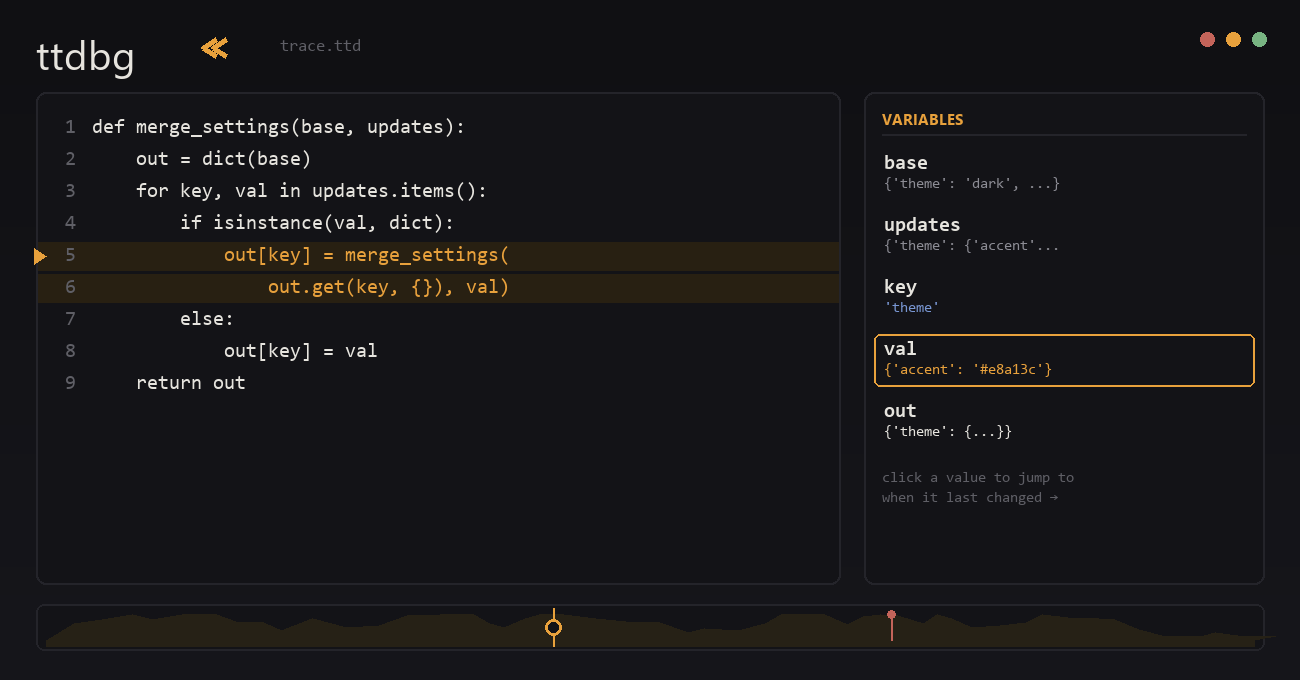
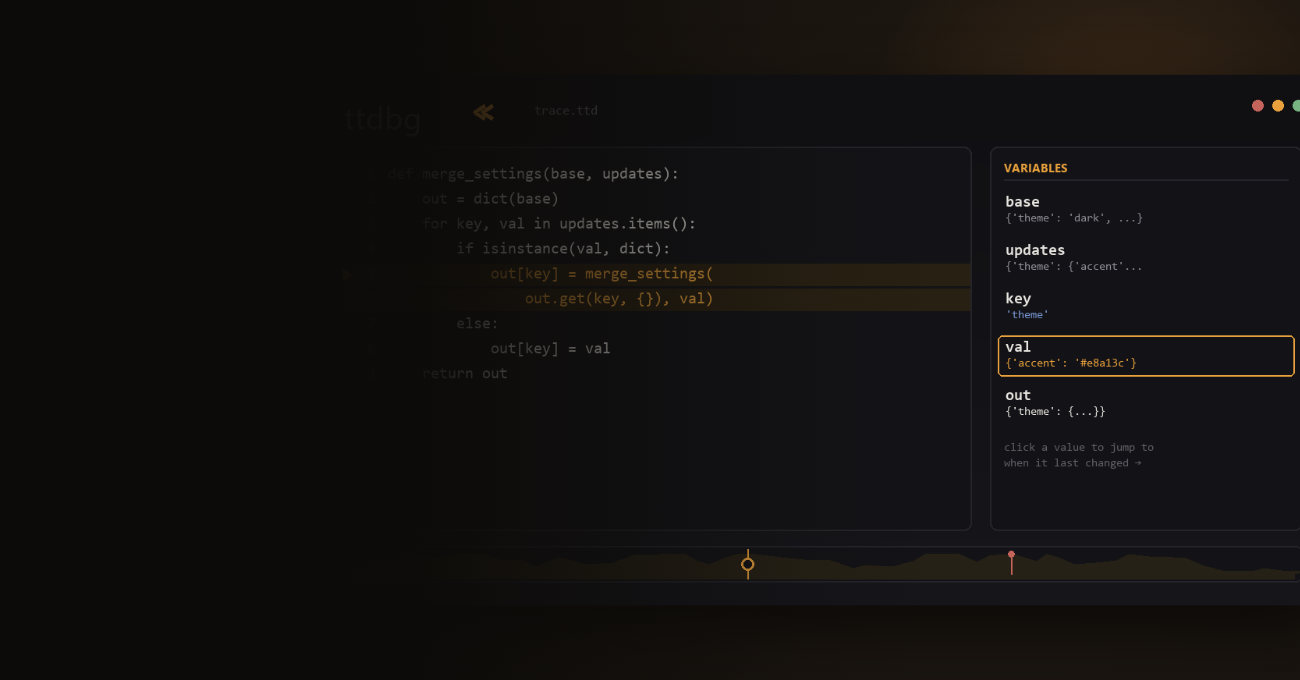
Fix the ttdbg post: encoding, missing card, cover composition
- Repair double-encoded em dashes (13 lines were rendering as mojibake)
- Add the missing ttdbg card to _data/projects.yml, linked to the repo.
  The home page is the projects grid, so a post without a card is unreachable.
- Recompose the cover so the UI mockup sits right of the title instead of
  underneath it, and shorten the subtitle to fit the header

diff --git a/_site/tags/index.html b/_site/tags/index.html
@@ -218,7 +218,7 @@
     <div class=" col-xl-8 offset-xl-2 col-lg-10 offset-lg-1 ">
       
 
-      <a href="#AI" class="btn btn-primary tag-btn"><i class="fas fa-tag" aria-hidden="true"></i>&nbsp;AI&nbsp;(4)</a><a href="#Agents" class="btn btn-primary tag-btn"><i class="fas fa-tag" aria-hidden="true"></i>&nbsp;Agents&nbsp;(1)</a><a href="#Architecture" class="btn btn-primary tag-btn"><i class="fas fa-tag" aria-hidden="true"></i>&nbsp;Architecture&nbsp;(1)</a><a href="#Chrome Extension" class="btn btn-primary tag-btn"><i class="fas fa-tag" aria-hidden="true"></i>&nbsp;Chrome Extension&nbsp;(1)</a><a href="#Cloudflare" class="btn btn-primary tag-btn"><i class="fas fa-tag" aria-hidden="true"></i>&nbsp;Cloudflare&nbsp;(2)</a><a href="#Cryptography" class="btn btn-primary tag-btn"><i class="fas fa-tag" aria-hidden="true"></i>&nbsp;Cryptography&nbsp;(1)</a><a href="#DSA" class="btn btn-primary tag-btn"><i class="fas fa-tag" aria-hidden="true"></i>&nbsp;DSA&nbsp;(1)</a><a href="#Desktop App" class="btn btn-primary tag-btn"><i class="fas fa-tag" aria-hidden="true"></i>&nbsp;Desktop App&nbsp;(1)</a><a href="#Distributed Systems" class="btn btn-primary tag-btn"><i class="fas fa-tag" aria-hidden="true"></i>&nbsp;Distributed Systems&nbsp;(1)</a><a href="#Expo" class="btn btn-primary tag-btn"><i class="fas fa-tag" aria-hidden="true"></i>&nbsp;Expo&nbsp;(1)</a><a href="#Game Dev" class="btn btn-primary tag-btn"><i class="fas fa-tag" aria-hidden="true"></i>&nbsp;Game Dev&nbsp;(1)</a><a href="#Gaming" class="btn btn-primary tag-btn"><i class="fas fa-tag" aria-hidden="true"></i>&nbsp;Gaming&nbsp;(1)</a><a href="#Health" class="btn btn-primary tag-btn"><i class="fas fa-tag" aria-hidden="true"></i>&nbsp;Health&nbsp;(1)</a><a href="#Lua" class="btn btn-primary tag-btn"><i class="fas fa-tag" aria-hidden="true"></i>&nbsp;Lua&nbsp;(1)</a><a href="#Mobile" class="btn btn-primary tag-btn"><i class="fas fa-tag" aria-hidden="true"></i>&nbsp;Mobile&nbsp;(1)</a><a href="#Open Source" class="btn btn-primary tag-btn"><i class="fas fa-tag" aria-hidden="true"></i>&nbsp;Open Source&nbsp;(1)</a><a href="#OpenCV" class="btn btn-primary tag-btn"><i class="fas fa-tag" aria-hidden="true"></i>&nbsp;OpenCV&nbsp;(2)</a><a href="#Paused" class="btn btn-primary tag-btn"><i class="fas fa-tag" aria-hidden="true"></i>&nbsp;Paused&nbsp;(1)</a><a href="#Python" class="btn btn-primary tag-btn"><i class="fas fa-tag" aria-hidden="true"></i>&nbsp;Python&nbsp;(4)</a><a href="#Raspberry pi" class="btn btn-primary tag-btn"><i class="fas fa-tag" aria-hidden="true"></i>&nbsp;Raspberry pi&nbsp;(1)</a><a href="#React Native" class="btn btn-primary tag-btn"><i class="fas fa-tag" aria-hidden="true"></i>&nbsp;React Native&nbsp;(1)</a><a href="#Roblox" class="btn btn-primary tag-btn"><i class="fas fa-tag" aria-hidden="true"></i>&nbsp;Roblox&nbsp;(1)</a><a href="#Startup" class="btn btn-primary tag-btn"><i class="fas fa-tag" aria-hidden="true"></i>&nbsp;Startup&nbsp;(2)</a><a href="#Stripe" class="btn btn-primary tag-btn"><i class="fas fa-tag" aria-hidden="true"></i>&nbsp;Stripe&nbsp;(1)</a><a href="#Unit Economics" class="btn btn-primary tag-btn"><i class="fas fa-tag" aria-hidden="true"></i>&nbsp;Unit Economics&nbsp;(1)</a><a href="#Voice" class="btn btn-primary tag-btn"><i class="fas fa-tag" aria-hidden="true"></i>&nbsp;Voice&nbsp;(1)</a><a href="#Vosk" class="btn btn-primary tag-btn"><i class="fas fa-tag" aria-hidden="true"></i>&nbsp;Vosk&nbsp;(1)</a><a href="#WIP" class="btn btn-primary tag-btn"><i class="fas fa-tag" aria-hidden="true"></i>&nbsp;WIP&nbsp;(1)</a><a href="#Youtube" class="btn btn-primary tag-btn"><i class="fas fa-tag" aria-hidden="true"></i>&nbsp;Youtube&nbsp;(1)</a><a href="#buttons" class="btn btn-primary tag-btn"><i class="fas fa-tag" aria-hidden="true"></i>&nbsp;buttons&nbsp;(1)</a><a href="#esp32" class="btn btn-primary tag-btn"><i class="fas fa-tag" aria-hidden="true"></i>&nbsp;esp32&nbsp;(3)</a><a href="#optimization" class="btn btn-primary tag-btn"><i class="fas fa-tag" aria-hidden="true"></i>&nbsp;optimization&nbsp;(1)</a><a href="#webserver" class="btn btn-primary tag-btn"><i class="fas fa-tag" aria-hidden="true"></i>&nbsp;webserver&nbsp;(2)</a><div id="full-tags-list"><h2 id="AI" class="linked-section">
+      <a href="#AI" class="btn btn-primary tag-btn"><i class="fas fa-tag" aria-hidden="true"></i>&nbsp;AI&nbsp;(4)</a><a href="#Agents" class="btn btn-primary tag-btn"><i class="fas fa-tag" aria-hidden="true"></i>&nbsp;Agents&nbsp;(1)</a><a href="#Architecture" class="btn btn-primary tag-btn"><i class="fas fa-tag" aria-hidden="true"></i>&nbsp;Architecture&nbsp;(1)</a><a href="#Chrome Extension" class="btn btn-primary tag-btn"><i class="fas fa-tag" aria-hidden="true"></i>&nbsp;Chrome Extension&nbsp;(1)</a><a href="#Cloudflare" class="btn btn-primary tag-btn"><i class="fas fa-tag" aria-hidden="true"></i>&nbsp;Cloudflare&nbsp;(2)</a><a href="#Cryptography" class="btn btn-primary tag-btn"><i class="fas fa-tag" aria-hidden="true"></i>&nbsp;Cryptography&nbsp;(1)</a><a href="#DSA" class="btn btn-primary tag-btn"><i class="fas fa-tag" aria-hidden="true"></i>&nbsp;DSA&nbsp;(1)</a><a href="#Debugging" class="btn btn-primary tag-btn"><i class="fas fa-tag" aria-hidden="true"></i>&nbsp;Debugging&nbsp;(1)</a><a href="#Desktop App" class="btn btn-primary tag-btn"><i class="fas fa-tag" aria-hidden="true"></i>&nbsp;Desktop App&nbsp;(1)</a><a href="#Distributed Systems" class="btn btn-primary tag-btn"><i class="fas fa-tag" aria-hidden="true"></i>&nbsp;Distributed Systems&nbsp;(1)</a><a href="#Expo" class="btn btn-primary tag-btn"><i class="fas fa-tag" aria-hidden="true"></i>&nbsp;Expo&nbsp;(1)</a><a href="#Game Dev" class="btn btn-primary tag-btn"><i class="fas fa-tag" aria-hidden="true"></i>&nbsp;Game Dev&nbsp;(1)</a><a href="#Gaming" class="btn btn-primary tag-btn"><i class="fas fa-tag" aria-hidden="true"></i>&nbsp;Gaming&nbsp;(1)</a><a href="#Health" class="btn btn-primary tag-btn"><i class="fas fa-tag" aria-hidden="true"></i>&nbsp;Health&nbsp;(1)</a><a href="#Lua" class="btn btn-primary tag-btn"><i class="fas fa-tag" aria-hidden="true"></i>&nbsp;Lua&nbsp;(1)</a><a href="#Mobile" class="btn btn-primary tag-btn"><i class="fas fa-tag" aria-hidden="true"></i>&nbsp;Mobile&nbsp;(1)</a><a href="#Open Source" class="btn btn-primary tag-btn"><i class="fas fa-tag" aria-hidden="true"></i>&nbsp;Open Source&nbsp;(1)</a><a href="#OpenCV" class="btn btn-primary tag-btn"><i class="fas fa-tag" aria-hidden="true"></i>&nbsp;OpenCV&nbsp;(2)</a><a href="#Paused" class="btn btn-primary tag-btn"><i class="fas fa-tag" aria-hidden="true"></i>&nbsp;Paused&nbsp;(1)</a><a href="#Python" class="btn btn-primary tag-btn"><i class="fas fa-tag" aria-hidden="true"></i>&nbsp;Python&nbsp;(5)</a><a href="#Raspberry pi" class="btn btn-primary tag-btn"><i class="fas fa-tag" aria-hidden="true"></i>&nbsp;Raspberry pi&nbsp;(1)</a><a href="#React Native" class="btn btn-primary tag-btn"><i class="fas fa-tag" aria-hidden="true"></i>&nbsp;React Native&nbsp;(1)</a><a href="#Roblox" class="btn btn-primary tag-btn"><i class="fas fa-tag" aria-hidden="true"></i>&nbsp;Roblox&nbsp;(1)</a><a href="#Startup" class="btn btn-primary tag-btn"><i class="fas fa-tag" aria-hidden="true"></i>&nbsp;Startup&nbsp;(2)</a><a href="#Stripe" class="btn btn-primary tag-btn"><i class="fas fa-tag" aria-hidden="true"></i>&nbsp;Stripe&nbsp;(1)</a><a href="#Systems" class="btn btn-primary tag-btn"><i class="fas fa-tag" aria-hidden="true"></i>&nbsp;Systems&nbsp;(1)</a><a href="#Tools" class="btn btn-primary tag-btn"><i class="fas fa-tag" aria-hidden="true"></i>&nbsp;Tools&nbsp;(1)</a><a href="#Unit Economics" class="btn btn-primary tag-btn"><i class="fas fa-tag" aria-hidden="true"></i>&nbsp;Unit Economics&nbsp;(1)</a><a href="#Voice" class="btn btn-primary tag-btn"><i class="fas fa-tag" aria-hidden="true"></i>&nbsp;Voice&nbsp;(1)</a><a href="#Vosk" class="btn btn-primary tag-btn"><i class="fas fa-tag" aria-hidden="true"></i>&nbsp;Vosk&nbsp;(1)</a><a href="#WIP" class="btn btn-primary tag-btn"><i class="fas fa-tag" aria-hidden="true"></i>&nbsp;WIP&nbsp;(1)</a><a href="#Youtube" class="btn btn-primary tag-btn"><i class="fas fa-tag" aria-hidden="true"></i>&nbsp;Youtube&nbsp;(1)</a><a href="#buttons" class="btn btn-primary tag-btn"><i class="fas fa-tag" aria-hidden="true"></i>&nbsp;buttons&nbsp;(1)</a><a href="#esp32" class="btn btn-primary tag-btn"><i class="fas fa-tag" aria-hidden="true"></i>&nbsp;esp32&nbsp;(3)</a><a href="#optimization" class="btn btn-primary tag-btn"><i class="fas fa-tag" aria-hidden="true"></i>&nbsp;optimization&nbsp;(1)</a><a href="#webserver" class="btn btn-primary tag-btn"><i class="fas fa-tag" aria-hidden="true"></i>&nbsp;webserver&nbsp;(2)</a><div id="full-tags-list"><h2 id="AI" class="linked-section">
         <i class="fas fa-tag" aria-hidden="true"></i>
         &nbsp;AI&nbsp;(4)
     </h2>
@@ -300,6 +300,15 @@
                 <a href="/2023-10-08-Prime-Miner-Optimization/">Optimized prime miner</a>
                 <div class="entry-date">
                     <time datetime="2023-10-08T00:00:00-04:00">October 8, 2023</time>
+                </div>
+            </div></div><h2 id="Debugging" class="linked-section">
+        <i class="fas fa-tag" aria-hidden="true"></i>
+        &nbsp;Debugging&nbsp;(1)
+    </h2>
+    <div class="post-list"><div class="tag-entry">
+                <a href="/2026-07-15-ttdbg/">ttdbg</a>
+                <div class="entry-date">
+                    <time datetime="2026-07-15T00:00:00-04:00">July 15, 2026</time>
                 </div>
             </div></div><h2 id="Desktop App" class="linked-section">
         <i class="fas fa-tag" aria-hidden="true"></i>
@@ -407,9 +416,14 @@
                 </div>
             </div></div><h2 id="Python" class="linked-section">
         <i class="fas fa-tag" aria-hidden="true"></i>
-        &nbsp;Python&nbsp;(4)
+        &nbsp;Python&nbsp;(5)
     </h2>
     <div class="post-list"><div class="tag-entry">
+                <a href="/2026-07-15-ttdbg/">ttdbg</a>
+                <div class="entry-date">
+                    <time datetime="2026-07-15T00:00:00-04:00">July 15, 2026</time>
+                </div>
+            </div><div class="tag-entry">
                 <a href="/2026-06-05-Operator/">OPERATOR</a>
                 <div class="entry-date">
                     <time datetime="2026-06-05T00:00:00-04:00">June 5, 2026</time>
@@ -478,6 +492,24 @@
                 <a href="/2026-07-13-PromptEnhance/">Building PromptEnhance</a>
                 <div class="entry-date">
                     <time datetime="2026-07-13T00:00:00-04:00">July 13, 2026</time>
+                </div>
+            </div></div><h2 id="Systems" class="linked-section">
+        <i class="fas fa-tag" aria-hidden="true"></i>
+        &nbsp;Systems&nbsp;(1)
+    </h2>
+    <div class="post-list"><div class="tag-entry">
+                <a href="/2026-07-15-ttdbg/">ttdbg</a>
+                <div class="entry-date">
+                    <time datetime="2026-07-15T00:00:00-04:00">July 15, 2026</time>
+                </div>
+            </div></div><h2 id="Tools" class="linked-section">
+        <i class="fas fa-tag" aria-hidden="true"></i>
+        &nbsp;Tools&nbsp;(1)
+    </h2>
+    <div class="post-list"><div class="tag-entry">
+                <a href="/2026-07-15-ttdbg/">ttdbg</a>
+                <div class="entry-date">
+                    <time datetime="2026-07-15T00:00:00-04:00">July 15, 2026</time>
                 </div>
             </div></div><h2 id="Unit Economics" class="linked-section">
         <i class="fas fa-tag" aria-hidden="true"></i>

diff --git a/_site/index.html b/_site/index.html
@@ -261,6 +261,39 @@
   <div class="project-card">
 
     
+      <div class="project-thumb" style="background-image: url('/assets/img/ttdbg-thumb.png');"></div>
+    
+
+    <div class="project-body">
+      <h3>ttdbg</h3>
+
+      
+      <div class="project-tags">
+        <span>Python</span><span>Debugging</span><span>Tools</span><span>Systems</span>
+      </div>
+      
+
+      <p>A time-travel debugger for Python. Record a run once, then explore it like a video, step backwards, scrub a timeline, and ask a variable when it last changed. Built on Python 3.12's sys.monitoring, pure stdlib, no C extension. Took the recorder from 247x overhead down to something usable.</p>
+
+      <div class="project-links">
+        
+          
+          
+          <a class="pl-primary" href="/2026-07-15-ttdbg/">Read write-up →</a>
+          
+        
+        
+        
+          <a class="pl-ghost" href="https://github.com/aaditya07creates/ttdbg" target="_blank" rel="noopener">GitHub</a>
+        
+      </div>
+    </div>
+
+  </div>
+  
+  <div class="project-card">
+
+    
       <div class="project-thumb" style="background-image: url('/assets/img/promptenhance-thumb.png');"></div>
     
 

diff --git a/_posts/2026-7-15-ttdbg.md b/_posts/2026-7-15-ttdbg.md
@@ -1,7 +1,7 @@
 ---
 layout: post
 title: ttdbg
-subtitle: A time-travel debugger for Python — step backwards, ask when a variable last changed
+subtitle: A time-travel debugger for Python
 cover-img: /assets/img/ttdbg-cover.png
 thumbnail-img: /assets/img/ttdbg-thumb.png
 share-img: /assets/img/ttdbg-cover.png